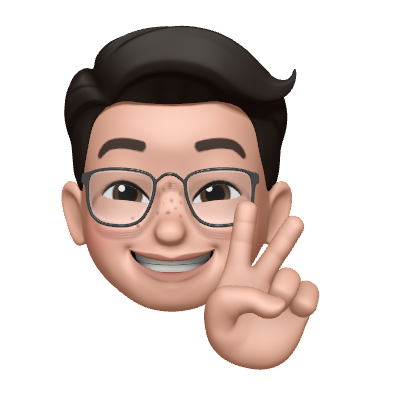
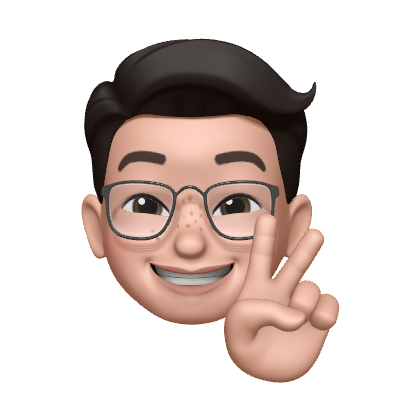
Fixed image spacing in About section

Changed region(s): [[0.1238, 0.0619, 0.8048, 0.9286]]

diff --git a/components/About.tsx b/components/About.tsx
@@ -5,35 +5,17 @@ type Props = {};
 
 export default function About({}: Props) {
   return (
-    <motion.div
-      initial={{ opacity: 0 }}
-      whileInView={{ opacity: 1 }}
-      transition={{ duration: 1 }}
-      className="flex flex-col relative h-screen font-inter text-center md:text-left md:flex-row max-w-7xl px-10 justify-evenly mx-auto items-center"
-    >
-      <h3 className="absolute top-24 uppercase tracking-[20px] text-light-slate text-2xl">
+    <div className="flex flex-col relative h-screen font-inter text-center md:text-left md:flex-row max-w-7xl px-10 justify-evenly mx-auto items-center">
+      <h3 className="top-24 uppercase tracking-[20px] text-light-slate text-2xl xl:absolute lg:absolute md:absolute sm:absolute">
         About
       </h3>
 
-      <motion.img
-        initial={{
-          x: -200,
-        }}
-        transition={{
-          duration: 0.8,
-        }}
-        whileInView={{ x: 0 }}
-        viewport={{ once: true }}
-        src="/aboutpic.jpg"
-        className="-mb-20 md:mb-0 flex-shrink-0 w-64 h-64 rounded-full object-cover 
-        md:rounded-lg md:w-64 md:h-95 xl:w-[420px] xl:h-[520px] sm:rounded-lg"
-      />
-
-      <div className="space-y-10 px-0 md:px-10">
-        {/* <h4 className="text-off-white text-4xl font-semibold">
-          Background
-        </h4> */}
-        <p className="text-base text-justify">
+      <div className="px-0 md:px-10 py-10 flex flex-col xl:flex-row md:flex-row sm:flex-row">
+        <img
+          src="/icon.png"
+          className="relative object-cover w-50 xl:w-96 xl:h-96 xl:pt-0 md:pt-0 md:w-80 md:h-80 sm:pt-0 sm:w-64 sm:h-64"
+        />
+        <p className="text-base text-justify space-y-10 pt-10">
           My name's James, and I'm a full-stack developer from Phoenix, Arizona.
           I've been around computers for as long as I can remember and my desire
           to understand how they work led me to pursuing an education in
@@ -52,6 +34,6 @@ export default function About({}: Props) {
           world navigate their digital life at least a bit more easily.
         </p>
       </div>
-    </motion.div>
+    </div>
   );
 }
